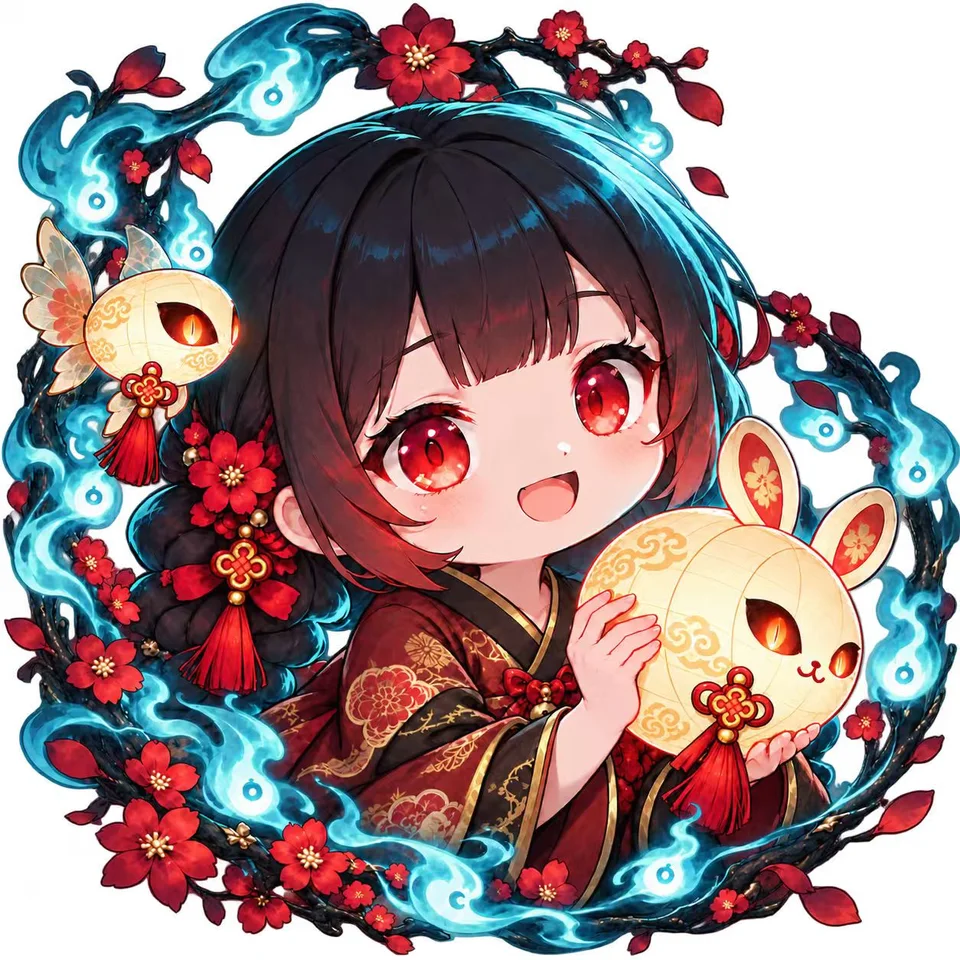
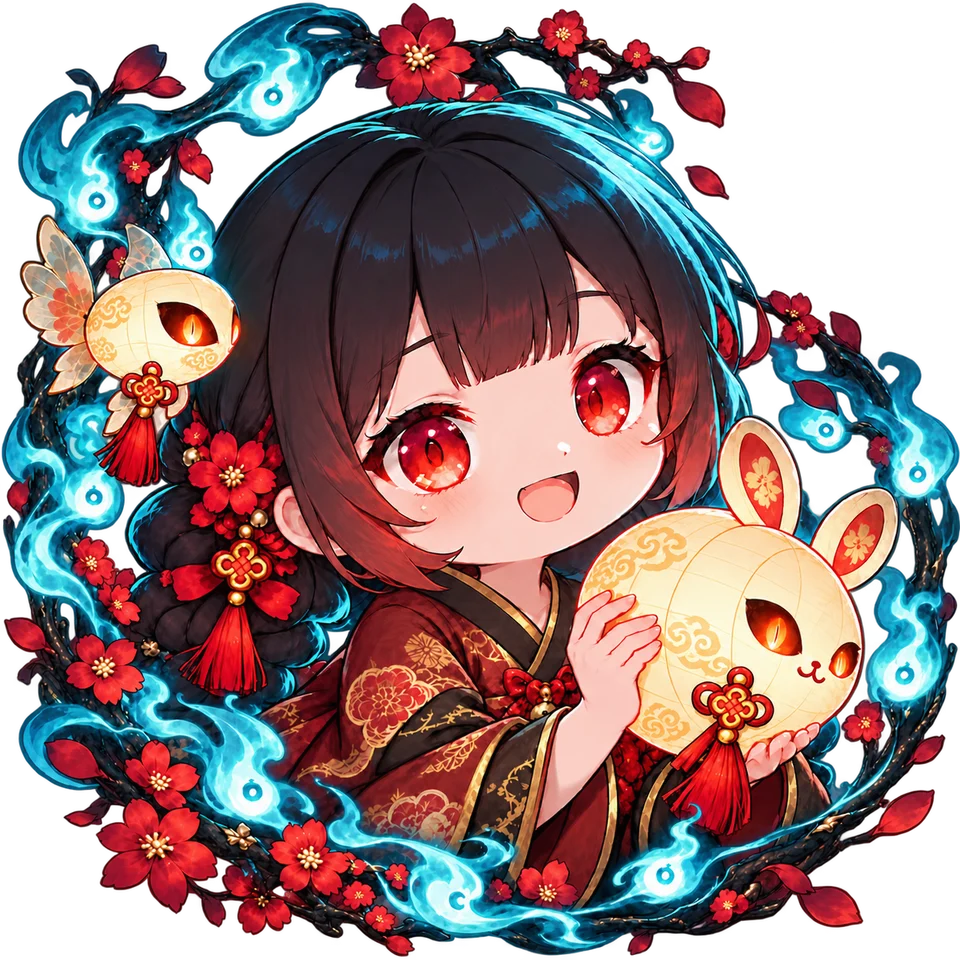
Update internship and add Po Zhen San Guo portfolio entry
Keep featured projects display-only and use a transparent Baigui cover. Leave gameplay and media pending because the supplied archive contains a different game.

diff --git a/index.html b/index.html
@@ -571,8 +571,6 @@
             box-shadow: 0 25px 50px rgba(0, 0, 0, 0.4), 0 0 40px rgba(100, 100, 150, 0.1);
         }
 
-        .featured-item[data-project] { cursor: pointer; }
-
         .featured-image {
             width: 100%;
             height: 250px;
@@ -2024,8 +2022,6 @@
         .modal-media-section--uncropped .modal-main-media { aspect-ratio: var(--media-aspect); }
         .modal-media-section--uncropped .modal-main-media img { object-fit: contain; }
 
-        .modal-media-placeholder { color: var(--text-muted); font-size: 1.2rem; }
-
         .modal-thumbnails {
             display: flex;
             gap: 0.5rem;
@@ -2349,7 +2345,7 @@
                             <div class="featured-role" data-zh="主策划" data-en="Lead Designer">主策划</div>
                         </div>
                     </div>
-                    <div class="featured-item" data-project="crayon" role="button" tabindex="0">
+                    <div class="featured-item">
                         <div class="featured-image" style="background-image: url('images/蜡忆余彩/web/cover.webp');"></div>
                         <div class="featured-content">
                             <div class="featured-tag" data-zh="TapTap 聚光灯 GameJam" data-en="TapTap Spotlight GameJam">TapTap 聚光灯 GameJam</div>
@@ -2379,6 +2375,14 @@
                 </div>
                 <div class="portfolio-wrapper" id="portfolioWrapper">
                     <div class="portfolio-grid" id="portfolioGrid">
+                        <div class="portfolio-item" data-category="demo" data-project="po-zhen-san-guo" role="button" tabindex="0" style="cursor: pointer;">
+                            <div class="portfolio-item-bg" style="background-image: url('images/游戏图标/po-zhen-san-guo.webp'); background-size: cover; background-position: center;"></div>
+                            <div class="portfolio-info">
+                                <div class="portfolio-category" data-zh="网页游戏" data-en="Browser Game">网页游戏</div>
+                                <h3 data-zh="破阵三国传" data-en="Po Zhen San Guo Zhuan">破阵三国传</h3>
+                                <p data-zh="Web 端 · 游戏项目" data-en="Web Game Project">Web 端 · 游戏项目</p>
+                            </div>
+                        </div>
                         <div class="portfolio-item" data-category="demo" data-project="crayon" role="button" tabindex="0" style="cursor: pointer;">
                             <div class="portfolio-item-bg" style="background-image: url('images/蜡忆余彩/web/cover.webp'); background-size: cover; background-position: center;"></div>
                             <div class="portfolio-info">
@@ -2388,7 +2392,7 @@
                             </div>
                         </div>
                         <div class="portfolio-item" data-category="demo" data-project="baigui" role="button" tabindex="0" style="cursor: pointer;">
-                            <div class="portfolio-item-bg" style="background-image: url('images/百诡夜行/web/cover.webp'); background-size: cover; background-position: center;"></div>
+                            <div class="portfolio-item-bg" style="background-image: url('images/百诡夜行/web/cover.webp'); background-color: #111923; background-size: cover; background-position: center;"></div>
                             <div class="portfolio-info">
                                 <div class="portfolio-category" data-zh="企业合作项目" data-en="Industry Collaboration">企业合作项目</div>
                                 <h3 data-zh="百诡夜行" data-en="Bai Gui Ye Xing">百诡夜行</h3>
@@ -2534,10 +2538,11 @@
                 </div>
                 <div class="timeline">
                     <div class="timeline-item">
-                        <div class="timeline-date" data-zh="线下实习" data-en="On-site Internship">线下实习</div>
+                        <div class="timeline-date">2026.11.09 - 2026.12.18</div>
                         <div class="timeline-content">
                             <h3 data-zh="星合互娱 · 星芽计划" data-en="Xinghe Interactive · Xingya Program">星合互娱 · 星芽计划</h3>
-                            <p data-zh="在星合互娱参加「星芽计划」线下实习，结合此前的游戏策划实践，进一步了解游戏研发流程与团队协作方式。" data-en="Took part in Xinghe Interactive’s on-site Xingya internship program, building on my game design experience to learn more about development workflows and team collaboration.">在星合互娱参加「星芽计划」线下实习，结合此前的游戏策划实践，进一步了解游戏研发流程与团队协作方式。</p>
+                            <h4 data-zh="线下实习 · 队长、主策划" data-en="On-site Internship · Team Lead &amp; Lead Game Designer">线下实习 · 队长、主策划</h4>
+                            <p data-zh="参加星合互娱「星芽计划」线下实习，担任队长和主策划，负责团队协作与游戏策划工作。" data-en="Joined Xinghe Interactive’s on-site Xingya internship as team lead and lead game designer, coordinating the team and overseeing game design.">参加星合互娱「星芽计划」线下实习，担任队长和主策划，负责团队协作与游戏策划工作。</p>
                         </div>
                     </div>
                     <div class="timeline-item">
@@ -2894,6 +2899,10 @@
     <script>
         // 作品数据
         const projectsData = {
+            'po-zhen-san-guo': {
+                type: 'demo', category: '网页游戏', title: '破阵三国传', subtitle: 'Web 端游戏',
+                description: '网页试玩、实机截图与演示视频待补充。'
+            },
             'crayon': {
                 type: 'demo', category: 'TapTap 聚光灯 GameJam', title: '蜡忆余彩', subtitle: 'What the Crayon Remembers · 叙事解谜',
                 role: '主策划', description: '玩家扮演一个封闭内心的孩子，跟随童年涂鸦探索灰白的房间，通过还原记忆与轻解谜，让蓝色的天空、绿色的植物和红色的家庭记忆重新进入他的世界。项目以三种颜色串联关卡，让场景变化呼应主角的情绪变化。',
@@ -3344,7 +3353,7 @@
                 this.closeBtn.addEventListener('click', () => this.close());
                 this.modal.addEventListener('click', (e) => { if (e.target === this.modal) this.close(); });
                 document.addEventListener('keydown', (e) => { if (e.key === 'Escape') this.close(); });
-                document.querySelectorAll('.portfolio-item[data-project], .featured-item[data-project]').forEach(item => {
+                document.querySelectorAll('#portfolioGrid .portfolio-item[data-project]').forEach(item => {
                     if (item.getAttribute('role') === 'button') {
                         item.addEventListener('keydown', (e) => {
                             if (e.key === 'Enter' || e.key === ' ') {
@@ -3423,33 +3432,27 @@
                 let html = '';
                 const downloadUrl = project.downloadUrl || project.docxUrl;
                 // 媒体区域 - 只有游戏Demo类型才显示
-                if (project.type === 'demo') {
-                    this.mediaList = [];
-                    const videoCover = project.videoCover || (project.screenshots && project.screenshots[0]) || '';
-                    if (project.videoUrl) this.mediaList.push({ type: 'video', src: project.videoUrl, label: 'PV预览', cover: videoCover });
-                    if (project.videoUrl2) this.mediaList.push({ type: 'video', src: project.videoUrl2, label: '演示视频', cover: videoCover });
-                    project.screenshots?.forEach((image, i) => this.mediaList.push(typeof image === 'string'
+                if (project.type === 'demo' && (project.videoUrl || project.videoUrl2 || project.screenshots?.length)) {
+                    const media = [];
+                    const firstScreenshot = project.screenshots?.[0];
+                    const videoCover = project.videoCover || firstScreenshot?.src || firstScreenshot || '';
+                    if (project.videoUrl) media.push({ type: 'video', src: project.videoUrl, label: 'PV预览', cover: videoCover });
+                    if (project.videoUrl2) media.push({ type: 'video', src: project.videoUrl2, label: '演示视频', cover: videoCover });
+                    project.screenshots?.forEach((image, i) => media.push(typeof image === 'string'
                         ? { type: 'image', src: image, label: `截图 ${i + 1}` }
                         : { type: 'image', ...image }));
-                    const firstVideo = this.mediaList.find(m => m.type === 'video');
-                    const hasMedia = this.mediaList.length > 0;
+                    const first = media[0];
                     const mediaClass = project.mediaAspect ? ' modal-media-section--uncropped' : '';
                     const mediaStyle = project.mediaAspect ? ` style="--media-aspect: ${project.mediaAspect}"` : '';
                     html += `<div class="modal-media-section${mediaClass}"${mediaStyle}><div class="modal-main-media">`;
-                    if (hasMedia) {
-                        if (firstVideo) {
-                            const isBilibili = firstVideo.src.includes('bilibili');
-                            html += isBilibili ? `<iframe src="${firstVideo.src}" scrolling="no" frameborder="0" allowfullscreen="true" style="width:100%;height:100%;"></iframe>` : `<video src="${firstVideo.src}" controls style="width:100%;height:100%;"></video>`;
-                        } else {
-                            html += `<img src="${this.mediaList[0].src}" alt="${project.title}">`;
-                        }
+                    if (first.type === 'video') {
+                        const isBilibili = first.src.includes('bilibili');
+                        html += isBilibili ? `<iframe src="${first.src}" scrolling="no" frameborder="0" allowfullscreen="true" style="width:100%;height:100%;"></iframe>` : `<video src="${first.src}" controls style="width:100%;height:100%;"></video>`;
                     } else {
-                        html += '<div class="modal-media-placeholder">敬请期待</div>';
+                        html += `<img src="${first.src}" alt="${project.title}">`;
                     }
                     html += `</div>`;
-                    if (hasMedia) {
-                        html += `<div class="modal-thumbnails">${this.mediaList.map((m, i) => `<button type="button" class="modal-thumbnail ${i === 0 ? 'active' : ''}" aria-label="${m.label}" aria-pressed="${i === 0}" data-type="${m.type}" data-src="${m.src}"><img src="${m.type === 'video' ? m.cover : m.src}" alt="" loading="lazy"></button>`).join('')}</div>`;
-                    }
+                    html += `<div class="modal-thumbnails">${media.map((m, i) => `<button type="button" class="modal-thumbnail ${i === 0 ? 'active' : ''}" aria-label="${m.label}" aria-pressed="${i === 0}" data-type="${m.type}" data-src="${m.src}"><img src="${m.type === 'video' ? m.cover : m.src}" alt="" loading="lazy"></button>`).join('')}</div>`;
                     html += `</div>`;
                 }
                 // 内容区域
@@ -3476,13 +3479,14 @@
                 html += `<div class="modal-section"><h3 class="modal-section-title">项目介绍</h3><p>${project.description}</p></div>`;
                 html += '</div>';
                 // 侧边栏
-                html += `<div class="modal-sidebar">
-                    <div class="modal-info-block"><div class="modal-info-label">个人角色</div><div class="modal-info-value">${project.role}</div></div>
-                    <div class="modal-info-block"><div class="modal-info-label">开发周期</div><div class="modal-info-value">${project.duration}</div></div>
-                    <div class="modal-info-block"><div class="modal-info-label">团队规模</div><div class="modal-info-value">${project.teamSize}</div></div>
-                    <div class="modal-info-block"><div class="modal-info-label">使用工具</div><div class="modal-info-value">${project.tools.join('、')}</div></div>
-                    <div class="modal-info-block"><div class="modal-info-label">作品类型</div><div class="modal-info-value">${project.type === 'demo' ? '游戏Demo' : project.type === 'design' ? '策划文档' : '分析文档'}</div></div>
-                </div>`;
+                const details = [
+                    ['个人角色', project.role], ['开发周期', project.duration], ['团队规模', project.teamSize],
+                    ['使用工具', project.tools?.join('、')],
+                    ['作品类型', project.type === 'demo' ? '游戏Demo' : project.type === 'design' ? '策划文档' : '分析文档']
+                ];
+                html += `<div class="modal-sidebar">${details.filter(([, value]) => value).map(([label, value]) =>
+                    `<div class="modal-info-block"><div class="modal-info-label">${label}</div><div class="modal-info-value">${value}</div></div>`
+                ).join('')}</div>`;
                 html += '</div>';
                 return html;
             }
